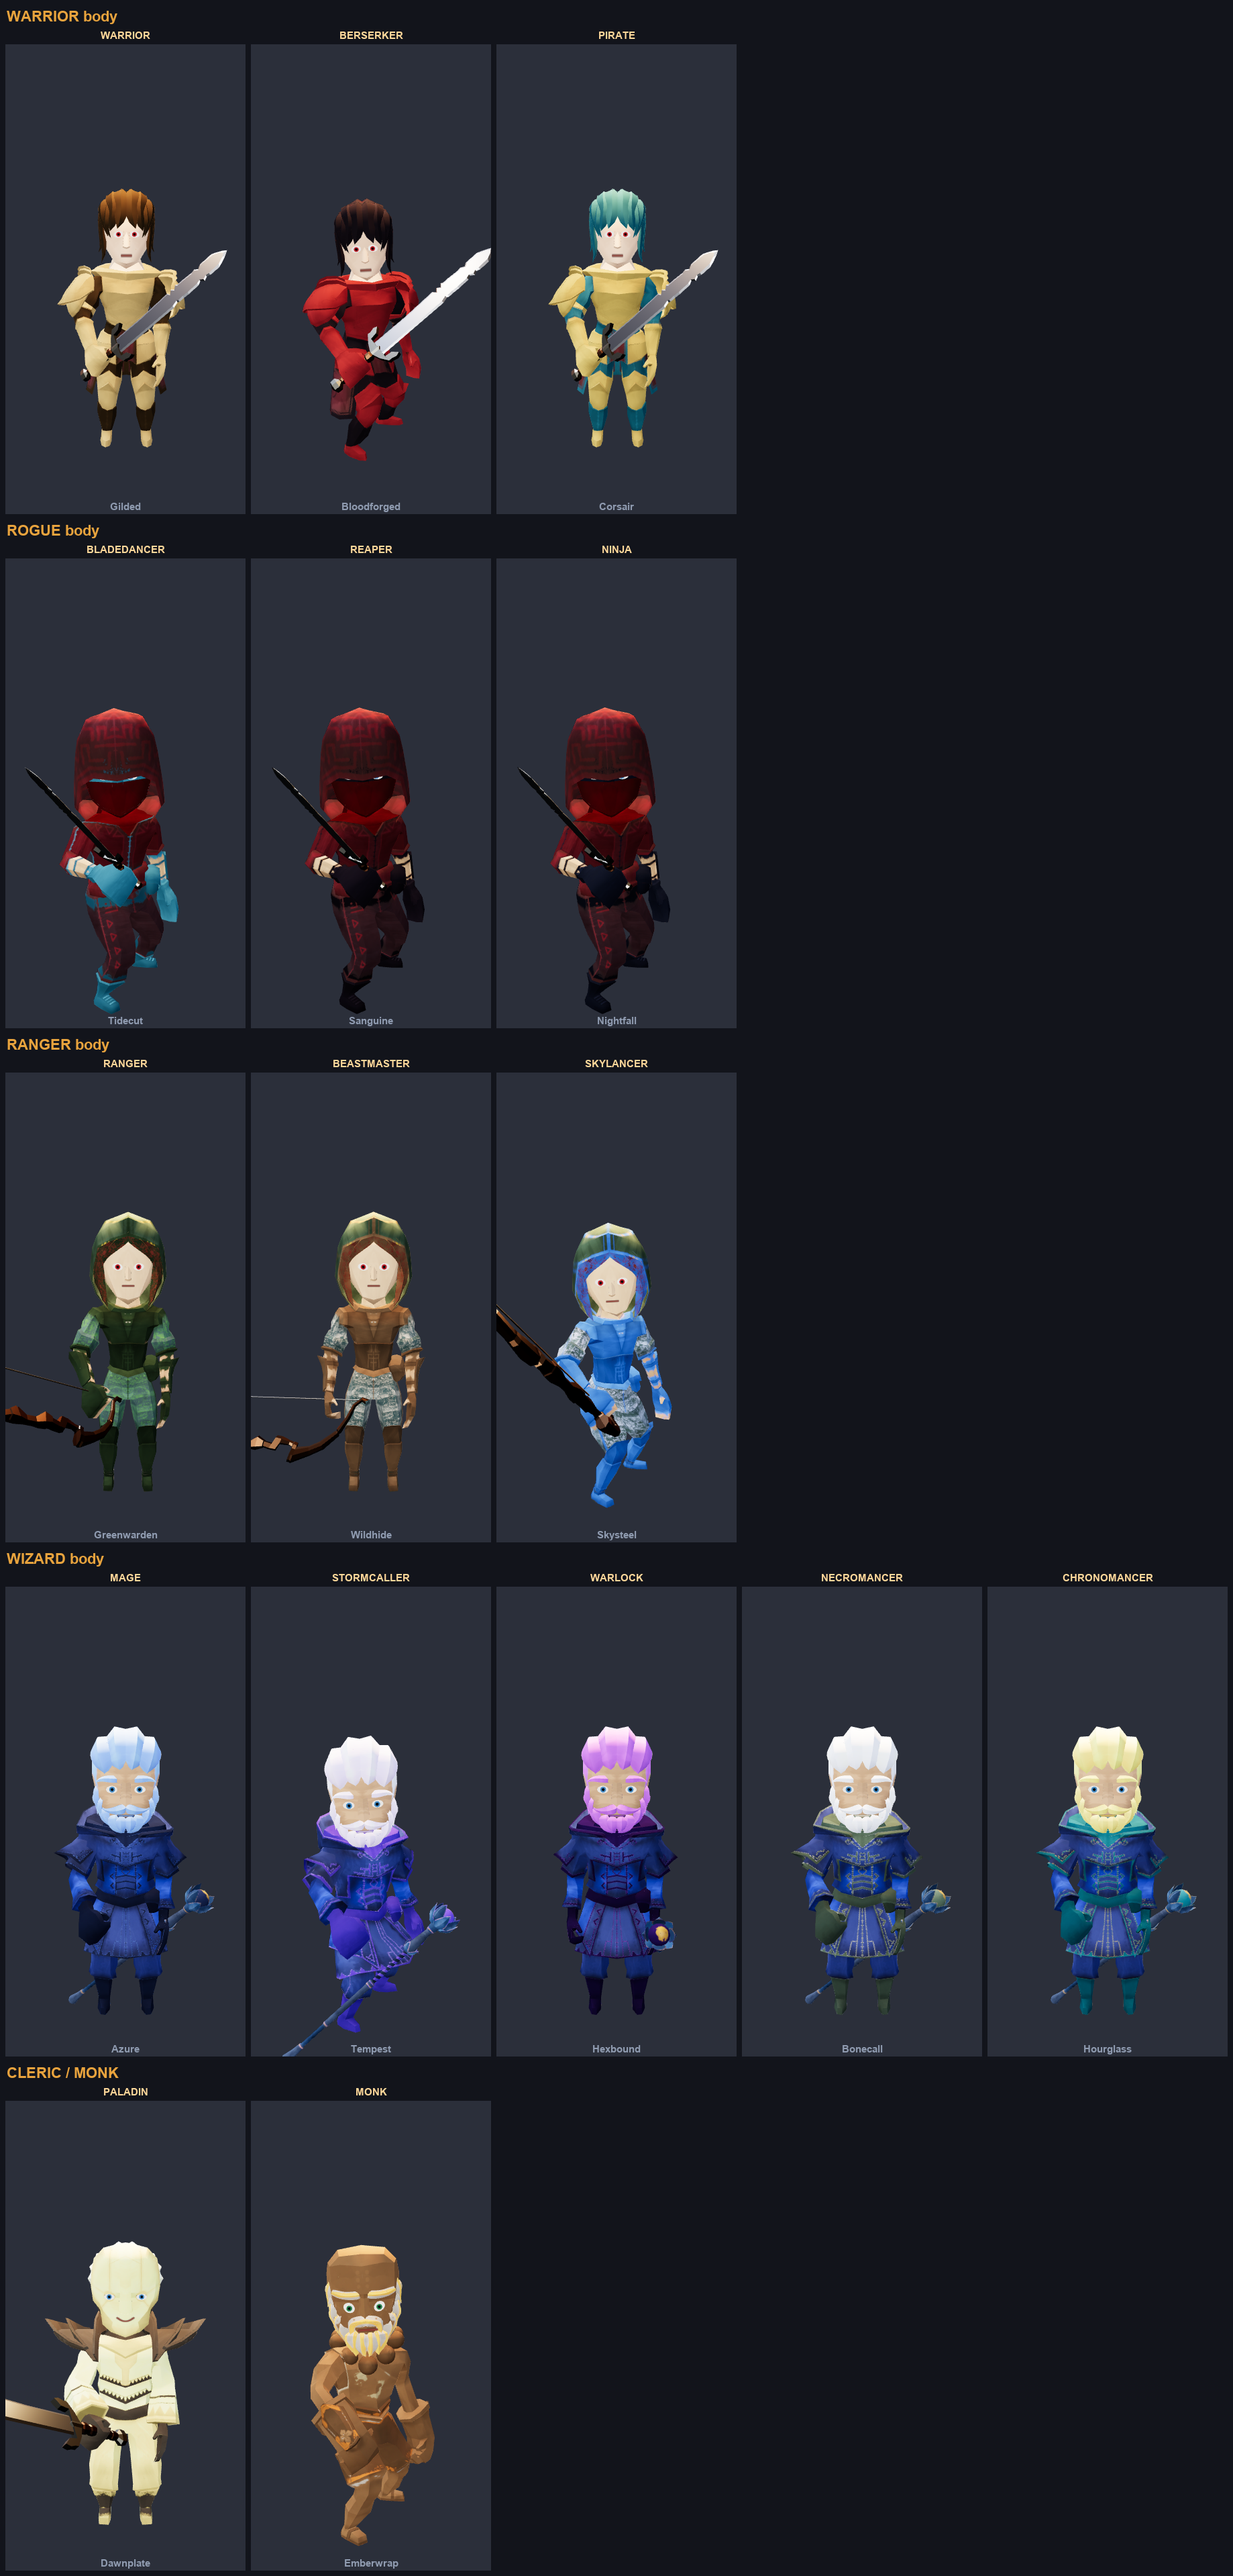
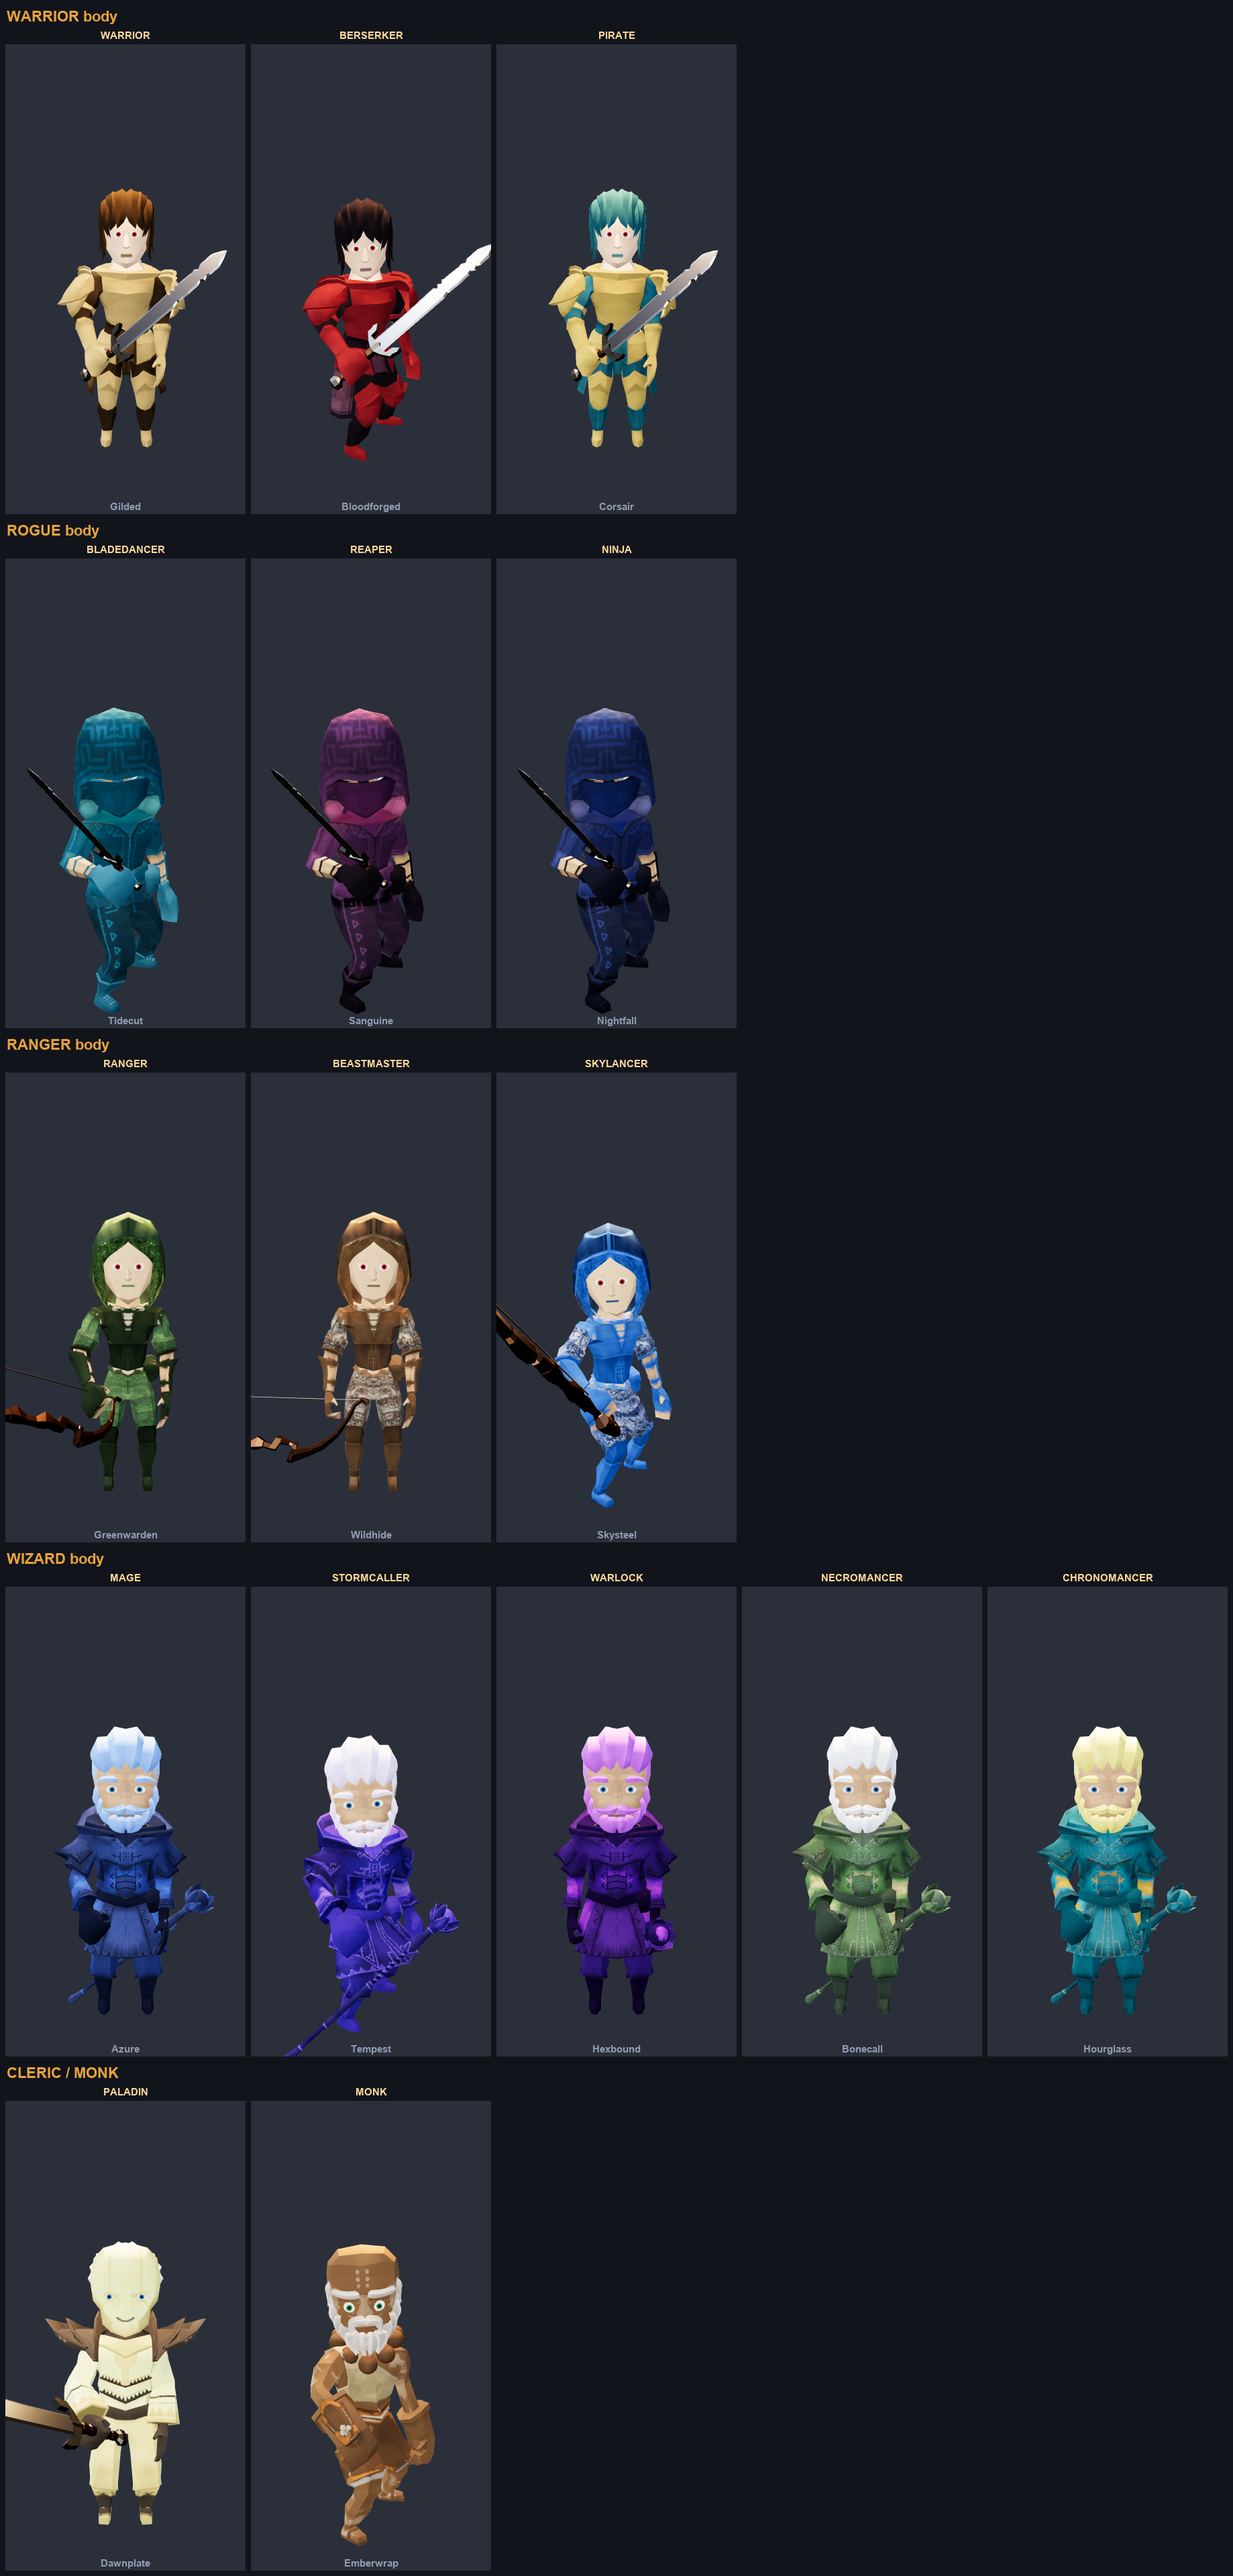
Fix the five broken class skins: the patch was going into the wrong function
All 16 classes are now visually distinct within their body group. The Rogue trio
reads teal / crimson / midnight blue and the Wizards read blue / violet / purple /
green / teal, where before three Rogues were the same red and two Wizards the same
blue.

The cause was not the colour logic, which was correct. There are TWO repaint
functions with byte-identical branch code - repaintTexture, used by class skins,
and repaintDetailed, used only by the starred redesign skins. Both earlier fixes
(the skin guard and the saturated-garment hue remap) were applied with a
replace-first-occurrence, and repaintDetailed comes first in the file. So every fix
landed in the function class skins never call. hero3d.js happened to get them in
the right function, which is why the GAME was already correct while the slice - the
thing I was screenshotting - was not.

What settled it was dumping the live texture the mesh actually samples and painting
it full-screen: the atlas background had turned teal while the garment islands were
still red. That is not a colour-rule failure, it is two different code paths, and it
pointed straight at the duplicate function. Reading the source had failed twice
before that because both functions look identical at the point of the edit.

Lesson worth keeping: when a targeted edit appears to have no effect, verify WHICH
definition it landed in before touching the logic again. I changed the same rules
[…]

diff --git a/public/slice3d/index.html b/public/slice3d/index.html
@@ -545,14 +545,29 @@ function repaintTexture(srcTex, skin){
     const [h,s,v] = rgb2hsv(px[i],px[i+1],px[i+2]);
     // luminance normalised so mid-greys land mid-tone, then lifted
     const lum = Math.min(1.9, (0.35 + v * 1.25) * lift);
-    if(s < 0.20){                                     // steel / plate / cloth-grey
-      tintPixel(px, i, metal, lum);
-    } else if(h >= 12 && h <= 52 && v < 0.52){        // dark leather + straps
-      tintPixel(px, i, leather, lum);
-    } else {                                          // skin, hair, eyes, accents
+    /* SKIN GUARD - faces and hands must survive a recolour. Skin is a warm mid-value hue that
+       collides with both the low-saturation "metal" test and the warm-dark "leather" test, so it
+       needs an explicit exclusion rather than careful branch ordering. Only brightness passes. */
+    if(h >= 8 && h <= 54 && s >= 0.12 && s <= 0.62 && v >= 0.45){
       px[i]   = Math.min(255, px[i]   * lift);
       px[i+1] = Math.min(255, px[i+1] * lift);
       px[i+2] = Math.min(255, px[i+2] * lift);
+    } else if(s < 0.20){                              // steel / plate / cloth-grey
+      tintPixel(px, i, metal, lum);
+    } else if(h >= 12 && h <= 52 && v < 0.52){        // dark leather + straps
+      tintPixel(px, i, leather, lum);
+    } else {
+      /* SATURATED GARMENT REMAP. This branch used to only brighten, which is why three Rogue
+         classes all stayed the same red and two Wizards stayed the same blue - a strongly
+         coloured robe never got recoloured at all, whatever palette was applied. Classes sharing
+         a body are told apart by colour alone, so that defeated the whole system. The pixel now
+         takes the palette's HUE while keeping its own shading, so folds, trim and painted detail
+         survive instead of flattening into one flat fill. */
+      const tgt = rgb2hsv(...(v < 0.42 ? leather : metal));
+      const nv  = Math.min(1, v * lift);
+      const ns  = Math.min(1, s * 0.45 + tgt[1] * 0.6);
+      const out = hsv2rgb(tgt[0], ns, nv);
+      px[i] = out[0]; px[i+1] = out[1]; px[i+2] = out[2];
     }
   }
   ctx.putImageData(data, 0, 0);
